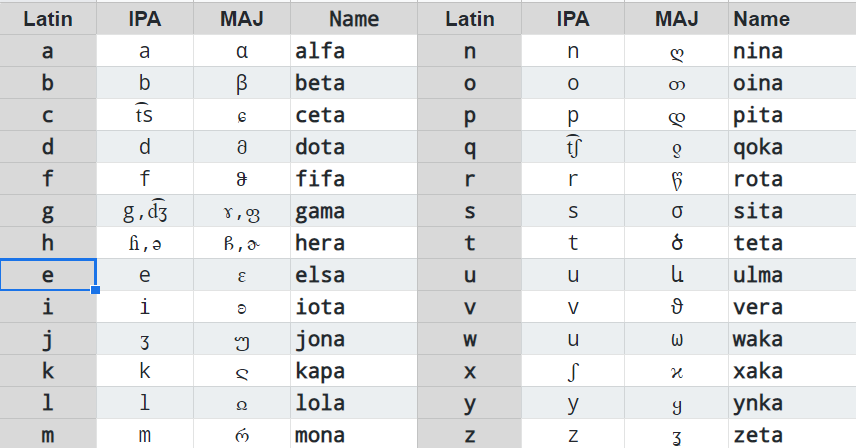
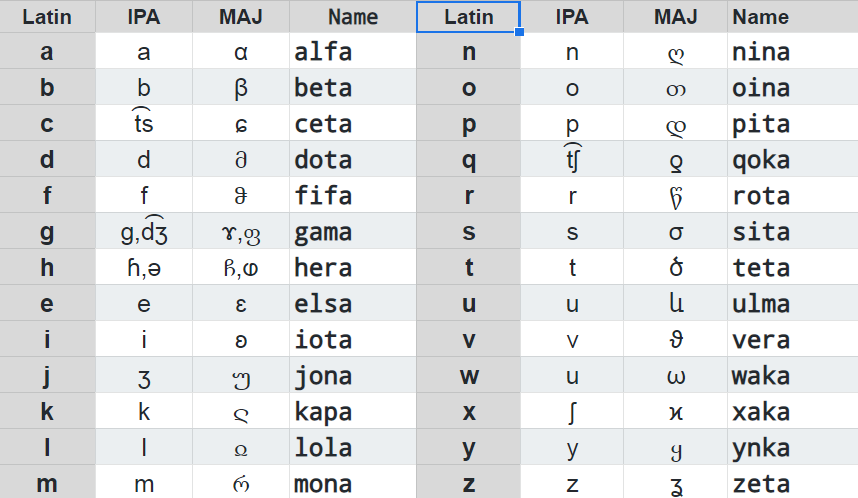
change letter h

diff --git a/alphabet.md b/alphabet.md
@@ -12,11 +12,11 @@ Latin | IPA  | MAJ | Maj Name
 ------|------|-----|-----------
   a   | a    | α   | alfa
   b   | b    | β   | beta
-  c   | t͡s   | ɕ   | ceta
+  c   | ts   | ɕ   | ceta
   d   | d    | მ   | dota
   f   | f    | ჵ   | fifa
-  g   | g,d͡ʒ | ɤ,ფ | gama
-  h   | ɦ,ə  | ჩ,ɚ | ɦera
+  g   | g,dʒ | ɤ,ფ | gama
+  h   | ɦ,ə  | ჩ,ⱷ | ɦera
   e   | e    | ɛ   | elsa
   i   | i    | ʚ   | iota
   j   | ʒ    | უ   | jona
@@ -26,7 +26,7 @@ Latin | IPA  | MAJ | Maj Name
   n   | n    | ღ   | nina
   o   | o    | თ   | oina
   p   | p    | დ   | pita
-  q   | t͡ʃ   | ƍ   | qoka
+  q   | tʃ   | ƍ   | qoka
   r   | r    | წ   | rota
   s   | s    | σ   | sita
   t   | t    | ծ   | teta  
@@ -436,3 +436,4 @@ Using this algorithm total cost for current: 542 word dictionary
 
 Read next: [numerals](numerals.md)
 
+∧
